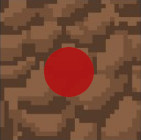
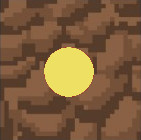
frutinhas

Changed region(s): [[0.3121, 0.3143, 0.6809, 0.7143]]

diff --git a/src/CanvasJogo.java b/src/CanvasJogo.java
@@ -32,6 +32,9 @@ public class CanvasJogo extends Canvas {
     private ImageIcon iconCaldaE;
     private ImageIcon iconCaldaC;
     private ImageIcon iconFrutaSim;
+    private ImageIcon iconFrutaBomba;
+    private ImageIcon iconFrutaGrande;
+    private ImageIcon iconFrutaDiminuta;
     private ImageIcon iconGameOver;
     private ImageIcon iconMorte;
     
@@ -46,26 +49,46 @@ public class CanvasJogo extends Canvas {
     private final Image imgCaldaE;
     private final Image imgCaldaC;
     private final Image imgFrutaSim;
+    private final Image imgFrutaBomba;
+    private final Image imgFrutaGrande;
+    private final Image imgFrutaDiminuta;
     private final Image imgGameOver;
     private final Image imgMorte;
     
    public void paint(Graphics g) {
         desenhaCobra(g);
     }
-   public void paint(Graphics g, Fruta fruta_a) {
+   public void paint(Graphics g, Fruta fruta) {
         desenhaCobra(g);
-        g.drawImage(imgFrutaSim, fruta_a.get_coordenadas()[1]*RECT_WIDTH+MARGIN, fruta_a.get_coordenadas()[0]*RECT_HEIGHT+MARGIN, RECT_WIDTH, RECT_HEIGHT, null);
+        desenhaFruta(g, fruta);
         
     }
    public void paint(Graphics g, Fruta fruta_a, Fruta fruta_b) {
         desenhaCobra(g);
-        g.drawImage(imgFrutaSim, fruta_a.get_coordenadas()[1]*RECT_WIDTH+MARGIN, fruta_a.get_coordenadas()[0]*RECT_HEIGHT+MARGIN, RECT_WIDTH, RECT_HEIGHT, null);
-        g.drawImage(imgFrutaSim, fruta_b.get_coordenadas()[1]*RECT_WIDTH+MARGIN, fruta_b.get_coordenadas()[0]*RECT_HEIGHT+MARGIN, RECT_WIDTH, RECT_HEIGHT, null);
+        desenhaFruta(g, fruta_a);
+        desenhaFruta(g, fruta_b);
         
     }
     public void gameOver(Graphics g){
          g.drawImage(imgGameOver, 3*RECT_WIDTH+MARGIN, 8*RECT_HEIGHT+MARGIN, 20*RECT_WIDTH, 5*RECT_HEIGHT, null);
          g.drawImage(imgMorte, cobrinha.get_coordenadas().get(1)[1]*RECT_WIDTH+MARGIN, cobrinha.get_coordenadas().get(1)[0]*RECT_HEIGHT+MARGIN, RECT_WIDTH, RECT_HEIGHT, null);
+    }
+    
+    public void desenhaFruta(Graphics g, Fruta fruta){
+        switch(fruta.get_tipo()){
+            case 's':
+                g.drawImage(imgFrutaSim, fruta.get_coordenadas()[1]*RECT_WIDTH+MARGIN, fruta.get_coordenadas()[0]*RECT_HEIGHT+MARGIN, RECT_WIDTH, RECT_HEIGHT, null);
+                break;
+            case 'b':
+                g.drawImage(imgFrutaBomba, fruta.get_coordenadas()[1]*RECT_WIDTH+MARGIN, fruta.get_coordenadas()[0]*RECT_HEIGHT+MARGIN, RECT_WIDTH, RECT_HEIGHT, null);
+                break;
+            case 'g':
+                g.drawImage(imgFrutaGrande, fruta.get_coordenadas()[1]*RECT_WIDTH+MARGIN, fruta.get_coordenadas()[0]*RECT_HEIGHT+MARGIN, RECT_WIDTH, RECT_HEIGHT, null);
+                break;
+            case 'd':
+                g.drawImage(imgFrutaDiminuta, fruta.get_coordenadas()[1]*RECT_WIDTH+MARGIN, fruta.get_coordenadas()[0]*RECT_HEIGHT+MARGIN, RECT_WIDTH, RECT_HEIGHT, null);
+                break;
+        }
     }
    
     public void desenhaCobra(Graphics g){
@@ -130,6 +153,9 @@ public class CanvasJogo extends Canvas {
         iconCaldaE = new ImageIcon("img/caldaE.jpg");
         iconCaldaC = new ImageIcon("img/caldaC.jpg");
         iconFrutaSim = new ImageIcon("img/frutaSim.jpg");
+        iconFrutaBomba = new ImageIcon("img/frutaBomba.jpg");
+        iconFrutaGrande = new ImageIcon("img/frutaGrande.jpg");
+        iconFrutaDiminuta = new ImageIcon("img/frutaDiminuta.jpg");
         iconGameOver = new ImageIcon("img/gameover.jpg");
         iconMorte = new ImageIcon("img/morte.jpg");
         // Prepare an Image object to be used by drawImage()
@@ -144,6 +170,9 @@ public class CanvasJogo extends Canvas {
         imgCaldaE = iconCaldaE.getImage();
         imgCaldaC = iconCaldaC.getImage();
         imgFrutaSim = iconFrutaSim.getImage();
+        imgFrutaBomba = iconFrutaBomba.getImage();
+        imgFrutaGrande = iconFrutaGrande.getImage();
+        imgFrutaDiminuta = iconFrutaDiminuta.getImage();
         imgGameOver = iconGameOver.getImage();
         imgMorte = iconMorte.getImage();
         
@@ -166,6 +195,9 @@ public class CanvasJogo extends Canvas {
         iconCaldaE = new ImageIcon("img/caldaE.jpg");
         iconCaldaC = new ImageIcon("img/caldaC.jpg");
         iconFrutaSim = new ImageIcon("img/frutaSim.jpg");
+        iconFrutaBomba = new ImageIcon("img/frutaBomba.jpg");
+        iconFrutaGrande = new ImageIcon("img/frutaGrande.jpg");
+        iconFrutaDiminuta = new ImageIcon("img/frutaDiminuta.jpg");
         iconGameOver = new ImageIcon("img/gameover.jpg");
         iconMorte = new ImageIcon("img/morte.jpg");
         // Prepare an Image object to be used by drawImage()
@@ -178,8 +210,11 @@ public class CanvasJogo extends Canvas {
         imgCalda = iconCalda.getImage();
         imgCaldaB = iconCaldaB.getImage();
         imgCaldaE = iconCaldaE.getImage();
-        imgCaldaC = iconCaldaC.getImage();	
+        imgCaldaC = iconCaldaC.getImage();
         imgFrutaSim = iconFrutaSim.getImage();
+        imgFrutaBomba = iconFrutaBomba.getImage();
+        imgFrutaGrande = iconFrutaGrande.getImage();
+        imgFrutaDiminuta = iconFrutaDiminuta.getImage();
         imgGameOver = iconGameOver.getImage();
         imgMorte = iconMorte.getImage();
     }

diff --git a/src/threadCanvas.java b/src/threadCanvas.java
@@ -6,20 +6,18 @@ public class threadCanvas extends Thread {
         private Cobra cobrinha;
         Fruta fruta_a;
         Fruta fruta_b;
-        private boolean fimDeJogo;
         private Random gerador;
 	
 	public threadCanvas(CanvasJogo canvas, Cobra cobrinha) {
 		this.canvas = canvas;
                 this.cobrinha = cobrinha;
-                fimDeJogo=false;
                 gerador = new Random();
 	}
 	
 	@Override
 	public void run() {
             boolean aux=true;
-		while(!fimDeJogo) {
+		while(!cobrinha.checa_morte()) {
 			try {
 				Thread.sleep(100);
 			} catch (InterruptedException e) {
@@ -32,7 +30,7 @@ public class threadCanvas extends Thread {
                         cobrinha.mover();
                         checaColisao();
                         geradorFrutas();
-                        if(!fimDeJogo){
+                        if(!cobrinha.checa_morte()){
                             if(fruta_a!=null && fruta_b==null){
                                 if(fruta_a.checaColisao(cobrinha)){
                                     fruta_a=null;
@@ -65,16 +63,41 @@ public class threadCanvas extends Thread {
 	}
         
         private void geradorFrutas(){
+            int aleatorio = gerador.nextInt(100);
+            
             if(fruta_a==null && fruta_b == null){
                 fruta_a = new FrutaSimples();
                 fruta_a.geraPos(25, 25);
             }else if(fruta_a!=null && fruta_b==null){
-                if(gerador.nextInt(20)==0){
-                    fruta_b = new FrutaSimples();
-                    do{
-                        fruta_b.geraPos(25, 25);
-                    }while(fruta_a.get_coordenadas()[0]==fruta_b.get_coordenadas()[0] &&
-                            fruta_a.get_coordenadas()[1]==fruta_b.get_coordenadas()[1]);
+                switch(aleatorio){
+                    case 0:
+                        fruta_b = new FrutaSimples();
+                        do{
+                            fruta_b.geraPos(25, 25);
+                        }while(fruta_a.get_coordenadas()[0]==fruta_b.get_coordenadas()[0] &&
+                                fruta_a.get_coordenadas()[1]==fruta_b.get_coordenadas()[1]);
+                        break;
+                    case 25:
+                        fruta_b = new FrutaBomba();
+                        do{
+                            fruta_b.geraPos(25, 25);
+                        }while(fruta_a.get_coordenadas()[0]==fruta_b.get_coordenadas()[0] &&
+                                fruta_a.get_coordenadas()[1]==fruta_b.get_coordenadas()[1]);
+                        break;
+                    case 50:
+                        fruta_b = new FrutaDiminuta();
+                        do{
+                            fruta_b.geraPos(25, 25);
+                        }while(fruta_a.get_coordenadas()[0]==fruta_b.get_coordenadas()[0] &&
+                                fruta_a.get_coordenadas()[1]==fruta_b.get_coordenadas()[1]);
+                        break;
+                    case 75:
+                        fruta_b = new FrutaGrande();
+                        do{
+                            fruta_b.geraPos(25, 25);
+                        }while(fruta_a.get_coordenadas()[0]==fruta_b.get_coordenadas()[0] &&
+                                fruta_a.get_coordenadas()[1]==fruta_b.get_coordenadas()[1]);
+                        break;
                 }
             }else if(fruta_a==null && fruta_b!=null){
                 if(gerador.nextInt(20)==0){
@@ -89,7 +112,7 @@ public class threadCanvas extends Thread {
         
         private void checaColisao(){
             if(cobrinha.getCoordCabeca()[0]<0 || cobrinha.getCoordCabeca()[1]<0 || cobrinha.getCoordCabeca()[0]>=25 || cobrinha.getCoordCabeca()[1]>=25){
-                fimDeJogo = true;
+                cobrinha.morre();
             }
         }
 }

diff --git a/src/Cobra.java b/src/Cobra.java
@@ -10,6 +10,7 @@ public class Cobra {
     private List<int[]> coordenadas;
     private int[] atras_calda;
     private char direcao;
+    private boolean morri;
     
     public Cobra(){
         atras_calda = new int[2];
@@ -26,6 +27,7 @@ public class Cobra {
         coordenadas.get(2)[0]=0;
         coordenadas.get(2)[1]=0;
         direcao = 'd';
+        morri = false;
     }
     
     public List<int[]> get_coordenadas(){
@@ -124,7 +126,21 @@ public class Cobra {
         coordenadas.get(coordenadas.size()-1)[1] = coordenadas.get(coordenadas.size()-2)[1];
     }
     
+    public void diminui(){
+        for(int i=3; i<coordenadas.size()-1;i++){
+            coordenadas.remove(3);
+        }
+    }
+    
     public int[] getCoordCabeca(){
         return coordenadas.get(0);
+    }
+    
+    public void morre(){
+        morri = true;
+    }
+    
+    public boolean checa_morte(){
+        return morri;
     }
 }

diff --git a/src/Fruta.java b/src/Fruta.java
@@ -3,6 +3,7 @@ import java.util.Random;
 public abstract class Fruta {
     private int coordenadas[];
     private Random gerador;
+    private char tipo;
     
     public Fruta(){
         coordenadas = new int[2];
@@ -28,5 +29,9 @@ public abstract class Fruta {
     
     public int[] get_coordenadas(){
         return coordenadas;
+    }
+    
+    public char get_tipo(){
+        return tipo;
     }
 }

diff --git a/src/FrutaDiminuta.java b/src/FrutaDiminuta.java
@@ -9,10 +9,9 @@
  * @author hercules
  */
 public class FrutaDiminuta extends Fruta{
+    private char tipo = 'd';
     @Override
     public void colide(Cobra cobrinha){
-        cobrinha.aumentaTamanho();
+        cobrinha.diminui();
     }
-    
-    
 }

diff --git a/src/FrutaSimples.java b/src/FrutaSimples.java
@@ -9,10 +9,9 @@
  * @author hercules
  */
 public class FrutaSimples extends Fruta{
+    private char tipo = 's';
     @Override
     public void colide(Cobra cobrinha){
         cobrinha.aumentaTamanho();
     }
-    
-    
 }

diff --git a/src/FrutaGrande.java b/src/FrutaGrande.java
@@ -9,10 +9,9 @@
  * @author hercules
  */
 public class FrutaGrande extends Fruta{
+    private char tipo = 'g';
     @Override
     public void colide(Cobra cobrinha){
         cobrinha.aumentaTamanho();
     }
-    
-    
 }

diff --git a/src/FrutaBomba.java b/src/FrutaBomba.java
@@ -9,10 +9,9 @@
  * @author hercules
  */
 public class FrutaBomba extends Fruta{
+    private char tipo = 'b';
     @Override
     public void colide(Cobra cobrinha){
         cobrinha.morre();
     }
-    
-    
 }
